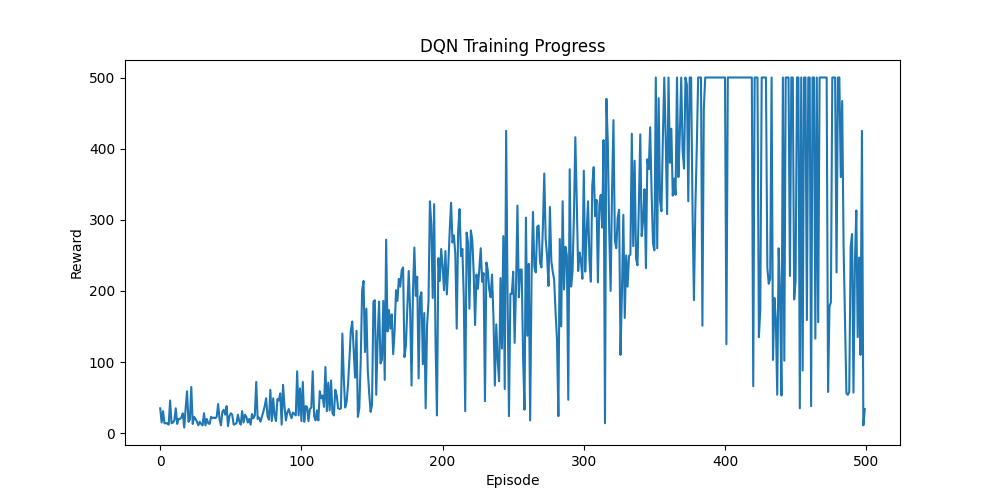
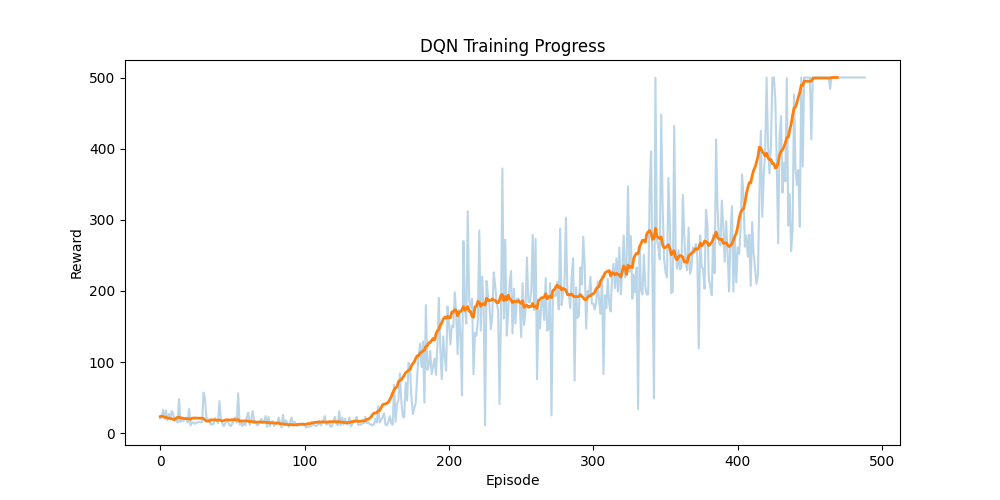
feat: add CartPole playback script and refresh training artifacts/docs

diff --git a/play_cartpole.py b/play_cartpole.py
@@ -1,0 +1,64 @@
+import gymnasium as gym
+import torch
+import torch.nn as nn
+
+# ===== ta sama sieć co w treningu =====
+class DQN(nn.Module):
+    def __init__(self, state_size, action_size):
+        super().__init__()
+        self.net = nn.Sequential(
+            nn.Linear(state_size, 64),
+            nn.ReLU(),
+            nn.Linear(64, 64),
+            nn.ReLU(),
+            nn.Linear(64, action_size)
+        )
+
+    def forward(self, x):
+        return self.net(x)
+
+# ===== środowisko =====
+env = gym.make("CartPole-v1", render_mode="human")
+
+state_size = env.observation_space.shape[0]
+action_size = env.action_space.n
+
+device = torch.device("cuda" if torch.cuda.is_available() else "cpu")
+
+# ===== tworzymy sieć =====
+model = DQN(state_size, action_size).to(device)
+
+# ===== wczytujemy wytrenowane wagi =====
+model.load_state_dict(
+    torch.load("dqn_cartpole.pth", map_location=device, weights_only=True)
+)
+
+model.eval()
+
+# ===== symulacja =====
+num_episodes = 20
+
+for episode in range(num_episodes):
+
+    state, _ = env.reset()
+    done = False
+    total_reward = 0
+
+    while not done:
+
+        state_tensor = torch.tensor(state, dtype=torch.float32).unsqueeze(0).to(device)
+
+        with torch.no_grad():
+            q_values = model(state_tensor)
+
+        action = q_values.argmax().item()
+
+        next_state, reward, terminated, truncated, _ = env.step(action)
+
+        done = terminated or truncated
+        state = next_state
+        total_reward += reward
+
+    print(f"Episode {episode+1}, Reward: {total_reward}")
+
+env.close()

diff --git a/dqn_cartpole.py b/dqn_cartpole.py
@@ -115,7 +115,7 @@ def train():
     global epsilon
     num_episodes = 500
     step_count = 0
-    solved_threshold = 475
+    solved_threshold = 400
 
     for episode in range(1, num_episodes+1):
         state, _ = env.reset()

diff --git a/README.md b/README.md
@@ -1,68 +1,81 @@
 # DQN CartPole
 
-PyTorch implementation of a Double DQN agent for solving `CartPole-v1` from Gymnasium.
+Implementacja agenta Double DQN w PyTorch dla środowiska `CartPole-v1` (Gymnasium).
 
-## Project structure
+## Struktura projektu
 
-| File | Description |
+| Plik | Opis |
 |---|---|
-| `dqn_cartpole.py` | Main training script (replay buffer, epsilon-greedy policy, Double DQN target computation, soft target update) |
-| `dqn_model.py` | Standalone DQN architecture example |
-| `cartpole_test.py` | Quick random-policy environment check with rendering |
-| `dqn_cartpole.pth` | Saved model weights (created/updated during training) |
+| `dqn_cartpole.py` | Główny skrypt treningowy: replay buffer, polityka epsilon-greedy, Double DQN, soft update target network |
+| `play_cartpole.py` | Odtwarzanie wytrenowanego modelu z wizualizacją (`render_mode="human"`) |
+| `cartpole_test.py` | Krótki test środowiska na losowych akcjach |
+| `dqn_model.py` | Przykładowa definicja architektury sieci DQN |
+| `dqn_cartpole.pth` | Zapisane wagi modelu (checkpoint po treningu) |
 
-## Requirements
+## Wymagania
 
 - Python 3.11
-- PyTorch 2.5.1 (`+cu121` in current environment)
+- PyTorch 2.5.1 (`+cu121` w aktualnym środowisku)
 - Gymnasium 1.2.3
 - NumPy 2.3.5
 - Matplotlib 3.10.8
 
-## Environment setup (Windows PowerShell)
+## Uruchomienie środowiska (Windows PowerShell)
 
 ```powershell
 ./rlenv/Scripts/Activate.ps1
 ```
 
-If you need to install dependencies manually:
+Jeśli instalujesz zależności ręcznie:
 
 ```powershell
 pip install torch torchvision torchaudio gymnasium matplotlib numpy
 ```
 
-## Run
+## Jak uruchomić
 
-Train agent:
+Trening agenta:
 
 ```bash
 python dqn_cartpole.py
 ```
 
-Test environment interaction (random actions + `render_mode="human"`):
+Odtwarzanie wytrenowanego modelu (20 epizodów, okno środowiska):
+
+```bash
+python play_cartpole.py
+```
+
+Szybki test środowiska (losowe akcje):
 
 ```bash
 python cartpole_test.py
 ```
 
-## Training behavior
+## Domyślne parametry treningu
 
-Current defaults in `dqn_cartpole.py`:
+Aktualne wartości w `dqn_cartpole.py`:
 
-- episodes: `500`
-- replay buffer size: `10000`
+- liczba epizodów: `500`
+- replay buffer: `10000`
 - batch size: `64`
 - gamma: `0.99`
 - learning rate: `0.001`
-- epsilon schedule: `1.0 -> 0.01` with decay `0.995`
-- target update: soft update with `tau = 0.01`
-- optimization step: every 4 environment steps (after replay warmup)
+- epsilon: `1.0 -> 0.01` (decay `0.995`)
+- soft update: `tau = 0.01`
+- uczenie co `4` kroki środowiska (po zapełnieniu bufora min. `1000` próbek)
 - gradient clipping: max norm `1.0`
+- early stopping: średnia nagroda z ostatnich 100 epizodów > `400`
 
-Early stopping is enabled when average reward over the last 100 episodes exceeds `475`. On early stop, model weights are saved to `dqn_cartpole.pth`.
+Po spełnieniu warunku early stopping model jest zapisywany do `dqn_cartpole.pth`.
 
-## Outputs
+## Wyniki
 
-- Console logs per episode (`Reward`, `Avg100`, `Epsilon`)
-- Matplotlib training plot shown at the end of training
-- Updated checkpoint file: `dqn_cartpole.pth`
+- logi w konsoli per epizod: `Reward`, `Avg100`, `Epsilon`
+- wykres postępu treningu (Matplotlib) po zakończeniu
+- aktualizacja pliku checkpointu: `dqn_cartpole.pth`
+
+## Uwagi
+
+- `play_cartpole.py` wymaga istniejącego pliku `dqn_cartpole.pth`.
+- Jeśli renderowanie nie działa, upewnij się, że środowisko ma dostęp do okna GUI (lokalna sesja desktopowa).
